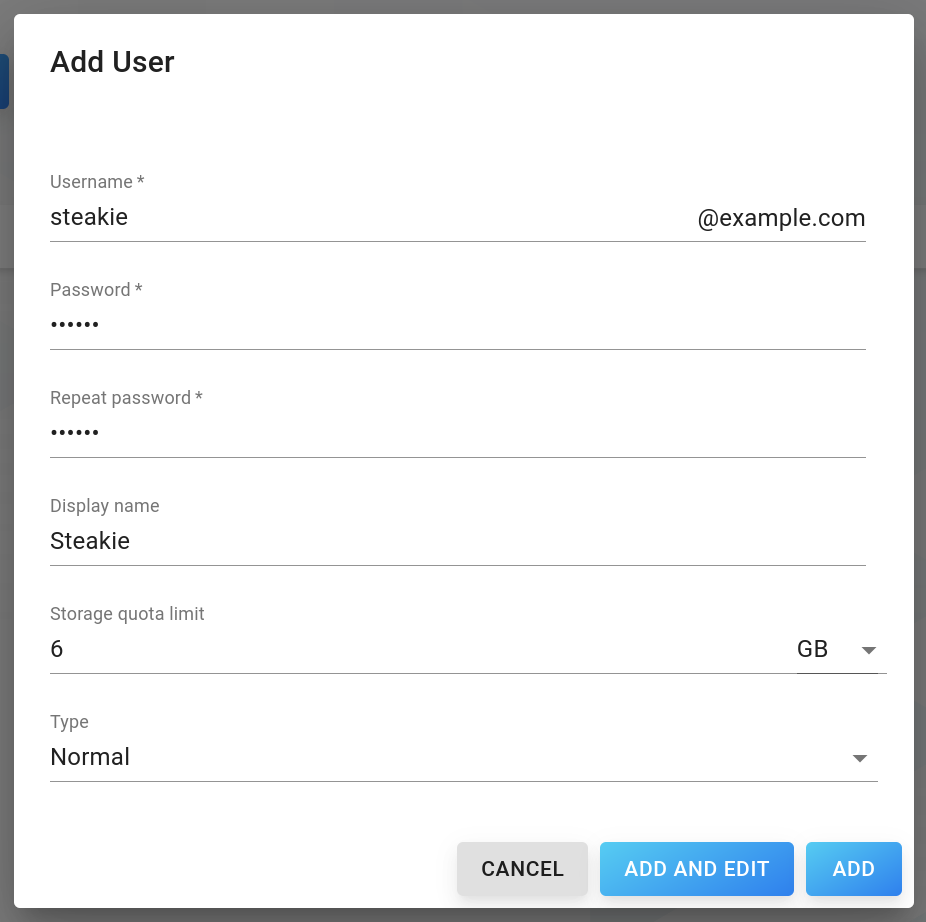
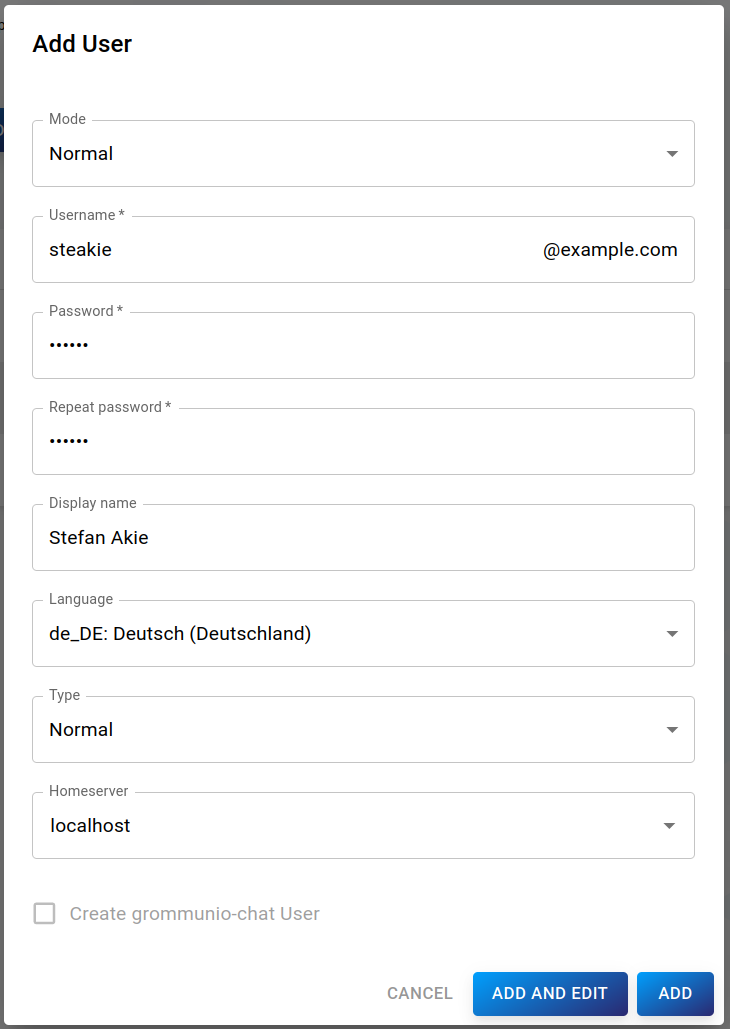
Update admin doc

diff --git a/admin/administration.rst b/admin/administration.rst
@@ -96,10 +96,19 @@ Load
 A display of the system load over the last 1, 5 and 15 minutes.
 
 
+Versions
+~~~~~~~~
+
+.. image:: _static/img/versions.png
+   :alt: grommunio load chart
+
+A display of installed component versions.
+
+
 Domains
 -------
 
-Click on `Domain list` in the drawer, which will redirect you to the list view
+Click on `Domains` in the drawer, which will redirect you to the list view
 of existing domains.
 If you just set up grommunio, the table will be empty.
 If you want to show currently deactivated domains check the checkbox `show
@@ -117,7 +126,7 @@ dialog:
 The following properties can be set:
 
 - Domain (required): The name of the domain (cannot be changed afterwards)
-- Status: Whether domain should be currently activated or deactivated
+- Status: Whether the domain should be currently activated or deactivated
 - Organization: Organization of the domain
 - Maximum users (required): The maximum amount of users (e-mails) of this
   domain
@@ -125,6 +134,7 @@ The following properties can be set:
 - Address: Address of the domain
 - Administrator: Administrator of the domain
 - Telephone: Hotline for problems
+- Homeserver: The server, on which the domain's data is stored
 - Create domain admin role: Creates a role for users, who will be admins for this domain
 - Create grommunio-chat team: Creates a new grommunio-chat team for this domain. If you want users of this domain to be able to log into grommunio-chat, this has to be checked.
 
@@ -196,11 +206,13 @@ To add a new user, click the blue `NEW USER` button to open the form dialog:
 
 The following properties can be set:
 
+- Mode: Normal or shared user
 - Username (required): Username of the user
 - Password (required): Password of the user
 - Display name: Name to be displayed for this user
 - Storage quota limit: Storage limit of the user
 - Type: Type of user
+- Homeserver: The server, on which the user's data is stored
 
 Click `Add` to confirm or `Cancel` to cancel.
 If you need to further specify user properties, click `Add and Edit` to open
@@ -215,15 +227,19 @@ of a user.
 .. image:: _static/img/edit_user.png
    :alt: editing a user
 
-There are 6 main categories of user properties:
+There are 10 main categories of user properties:
 
 - Account: RPC/HTTP (Outlook Anywhere), MAPI/HTTP, IMAP, POP3 etc.
   configuration
 - User: MAPI props
 - Contact: Additional MAPI props
 - Roles: Roles of the user
-- SMTP: Additional e-mails for this user (aliases)
+- SMTP: Additional e-mails for this user (aliases) and forwarding rules
+- Permission: Select users which have special permissions for this user's mailbox
+- OOF: Out of office settings
 - Fetchmail: Configuration to fetch mails from other servers via fetchmail
+- Mobile devices: List of user's mobile devices (via MDM)
+- Sync policy: MDM sync policy (specifically for this user)
 
 
 Account
@@ -231,9 +247,11 @@ Account
 
 The following properties can be edited:
 
+- Username
 - Mode: Mailbox mode, toggle between a normal user and a shared mailbox
 - Type: Type of user
-- Language: Language of the user (does not effect the language of the UI)
+- Homeserver: Server, on which the user's data is stored
+- Language: Store language of the user (does not effect the language of the UI)
 - Used space
    - Send quota limit: Maximum size of the mailbox before sending messages is
      blocked
@@ -241,21 +259,24 @@ The following properties can be edited:
      is blocked
    - Storage quota limit: Maximum size of the mailbox before storing (any kind
      of) objects is blocked
+- Create grommunio-chat user: Creates a grommunio-chat account for this user. If this checkbox is disabled, there is no grommunio-chat team for this domain.
+- grommunio-chat admin permission: Gives administrative permissions for grommunio-chat to this user's grommunio-chat account.
+- grommunio-chat permissions: Grants grommunio-chat admin permissions
 - Allow SMTP sending: Allows the user to send e-mails via SMTP
 - Allow password changes: Allows the user to change his/her password
 - Allow POP3/IMAP logins: Allows logins via POP3 or IMAP
-- Create grommunio-chat user: Creates a grommunio-chat account for this user. If this checkbox is disabled, there is no grommunio-chat team for this domain.
-- grommunio-chat admin permission: Gives administrative permissions for grommunio-chat to this user's grommunio-chat account.
+- Hide from GAL: Hides the user from he Global Address List
+- Allow Chat/Meet/Files/Archive: Allows access to respective feature
 
-Note that, because a message first needs to be exist internally before it can
+Note that, because a message needs to exist internally before it can
 be sent, the storage quota limit is also relevant for sending. Conversely,
-for reception, the storage quota limit must allow storing messages. (It follows
-that the storage quota should always be more than receive quota, and more than
+for reception, the storage quota limit must allow storing messages.
+(Thus, the storage quota should always be more than receive quota, and more than
 send quota.)
 
 To change the current password of the user, click `Change password` next to the
 username.
-You will be prompted to set and repeat your new password.
+You will be prompted to set and repeat the new password.
 
 
 User & Contact
@@ -276,33 +297,36 @@ Roles of the user, which can be edited with the autocompleting textfield
 SMTP
 ^^^^
 
-User aliases. Edit the textfield to edit an alias, click `ADD E-MAIL` to add or
+User aliases:. Edit the textfield to edit an alias, click `ADD E-MAIL` to add or
 click the delete icon to delete an alias.
 
-.. image:: _static/img/edit_alias.png
+E-Mail forward: Select forward type (CC or Redirect) and the destination e-mail.
+
+.. image:: _static/img/user_smtp.png
    :alt: editing a user
 
 
-Delegates
-^^^^^^^^^
+Permissions
+^^^^^^^^^^^
 
-Delegates of the user, which can send e-mails "on behalf of" the user.
+Granting other users access to this mailbox.
+Available permissions:
 
-.. image:: _static/img/delegates.png
-   :alt: user delegates
+- Delegates: Permission to send 'on behalf of' this user
+- Send as: Permission to set this user as the sender of an email
+- Full permissions: Grants full mailbox permission
 
-In above example, the user ``steakie@grammm.com`` is a delegate for Victor Tesla, so ``steakie`` can send e-mails on behalf of Victor.
+.. image:: _static/img/user_permissions.png
+   :alt: editing a user
 
 
-Permitted users
-^^^^^^^^^^^^^^^
+OOF
+^^^
 
-Permitted users are granted full access the user's mailbox.
+Out of office settings (auto-reply messages).
 
-.. image:: _static/img/permitted_users.png
-   :alt: permitted users
-
-In above example, the user ``steakie@grammm.com`` has full access to Victor Tesla's mailbox.
+.. image:: _static/img/user_oof.png
+   :alt: editing a user
 
 
 Fetchmail
@@ -353,10 +377,20 @@ Synchronized mobile devices of this user
 .. image:: _static/img/user_devices.png
    :alt: user mobile devices
 
+
 Actions:
 """"""""
 - Remote wipe: Engages a remote wipe for a device via MDM (Mobile Device Management)
 - Cancel remote wipe: Cancel above action
+
+
+Sync policy
+^^^^^^^^^^^
+
+Specific MDM rules for this user. Unedited rules (greyed out) are adopted from the domain's policy.
+
+.. image:: _static/img/user_sync_policy.png
+   :alt: user sync policy
 
 
 Deleting a user
@@ -371,24 +405,30 @@ The following flags can be set:
 Click `Confirm` to confirm or `Cancel` to cancel.
 
 
-Folders
--------
+Public folders
+--------------
 
-If at least one domain exists in the database, folders can be added to a
+If at least one domain exists in the database, public folders can be added to a
 domain.
-To show existing folders of a domain, navigate to the domain view in the
+To show existing public folders of a domain, navigate to the domain view in the
 drawer.
 
-Click on a domain to expand available sub-pages and click on `Folders`, which
+Click on a domain to expand available sub-pages and click on `Public folders`, which
 will redirect you to the list of folders of this domain.
-If you have just installed grommunio or added the domain, the list will be
-empty.
+There are two views: A hierarchical view, like a common folder structure and a tree-like graph view.
+
+.. image:: _static/img/folders.png
+   :alt: public folders
+
+.. image:: _static/img/folders_tree.png
+   :alt: public folders
+
 
 Adding a folder
 ~~~~~~~~~~~~~~~
 
-To add a new folder, click the blue `NEW FOLDER` button to open the form
-dialog:
+To add a folder, click the `Plus Circle` icon of the folder's parent folder.
+`Public Folders` is the root folder, all other folders are put into. Thus the first folder is always within `Public Folders (IPM_SUBTREE)`.
 
 .. image:: _static/img/add_folder.png
    :alt: adding a folder
@@ -406,8 +446,7 @@ Click `Add` to confirm or `Cancel` to cancel.
 Editing a folder
 ~~~~~~~~~~~~~~~~
 
-To edit an existing folder, click on a folder in the list to open the detailed
-view of a folder.
+To edit an existing folder, click on the right `Edit` icon inside the hierarchy view to open the folder details.
 
 .. image:: _static/img/edit_folder.png
    :alt: editing a folder
@@ -415,9 +454,18 @@ view of a folder.
 Simply change attributes to your needs, then click `Save` on the bottom to save
 your changes.
 
-To add new owners, click the `+` next to "Owners".
-Enter all users of database to be added as owner of this folder.
-To remove an owner, click trash icon next to the owner and confirm.
+
+Folder permissions
+^^^^^^^^^^^^^^^^^^
+
+To edit folder permission click on `Open permissions` to open the permissions dialog.
+
+.. image:: _static/img/folder_permissions.png
+   :alt: editing a folder
+
+This form is a direct replica of grommunio-web's and outlook's folder permission settings.
+Select users to grant permissions at the top and set their permissions at the bottom.
+
 
 Deleting a folder
 ~~~~~~~~~~~~~~~~~
@@ -596,7 +644,9 @@ The following properties can be set:
 - Users: Users to which this role will be assigned to
 - Permissions:
    - SystemAdmin: Permits any operation
+   - SystemAdminRO: Grants read-only permissions to system settings
    - DomainAdmin: Permits operations on for specific domain
+   - DomainAdminRO: Grants read-only permissions to specific domain
    - DomainPurge: If present, grants permission to purge any writable domain
    - OrgAdmin: Grants DomainAdmin permission to any domain with matching orgID
    - Params: Domain/Organisation to get access to with this role
@@ -650,6 +700,7 @@ The following properties can be set:
 
 - Name (required): Name of the organization
 - Description: Detailed description of the organization
+- Domains: Domains which are part of this organization
 
 Click `Add` to confirm or `Cancel` to cancel.
 
@@ -987,12 +1038,54 @@ For example, you could configure `postfix` changes like this:
 This will, among else, restart the service if the service config changes.
 
 
+Servers
+-------
+
+If grommunio is running on a distributed system, the list of servers can be added in this view.
+It is possible to specify the selection policy for user distribution.
+You can select from:
+
+- round-robin: Always use the server, on which a user has *not* been added for the longest time (in a circle-like manner).
+- balanced: Put new user on server with least workload
+- first: Always use the first server
+- last: Always use the last server
+- random: Pick a random server
+
+.. image:: _static/img/servers.png
+   :alt: servers
+
+Adding a server
+~~~~~~~~~~~~~~~
+
+To add a new server, click the blue `NEW SERVER` button to open the form dialog:
+
+.. image:: _static/img/add_server.png
+   :alt: add server
+
+The following properties can be set:
+
+- Hostname (required): Internal server hostname
+- Extname (required): Hostname for external access (DNS-Name)
+
+
+Editing a server
+~~~~~~~~~~~~~~~~
+
+To edit an existing server, click on a server in the list to open the detailed view.
+
+.. image:: _static/img/edit_server.png
+   :alt: edit server
+
+Simply change attributes to your needs, then click `Save` on the bottom to save
+your changes.
+
+
 Logs
 ----
 
 Click on `Logs` in the drawer, which will redirect you to the list of available
 logs.
-Usually, you will see a list of grommunio/gromox services, which journalctl
+Usually, you will see a list of grommunio/gromox services, which `journalctl`
 logs you can view here.
 
 .. image:: _static/img/logs.png
@@ -1015,6 +1108,35 @@ current postfix and gromox mail queue.
    :alt: mailQ
 
 These lists will update automatically every 10 seconds.
+
+
+Actions
+~~~~~~~
+
+Select table rows by clicking the checkboxes. Mail queue actions will be used on thw selected entries.
+
+The actions are:
+
+- Flush: Try to continue mail processing
+- Requeue: Remove mail from queue and add queue the same mail as new entry
+- Delete: Permanently remove mail from queue
+
+
+Tasks
+-----
+
+Click on `Mail queue` in the drawer, which will redirect you to the Tasks view.
+
+Tasks are created for operations which could potentially take a long time.
+Currently, this includes LDAP sync and folder deletion.
+If one of these operations take too long, a background task is created, which can be viewed in this table.
+
+.. image:: _static/img/tasks.png
+   :alt: tasks
+
+In case the internal task processor is not running, it can be started manually by clicking the `Start server` button.
+
+Further task details can be seen in the task details view, by clicking on a task in the table.
 
 
 Mobile devices
